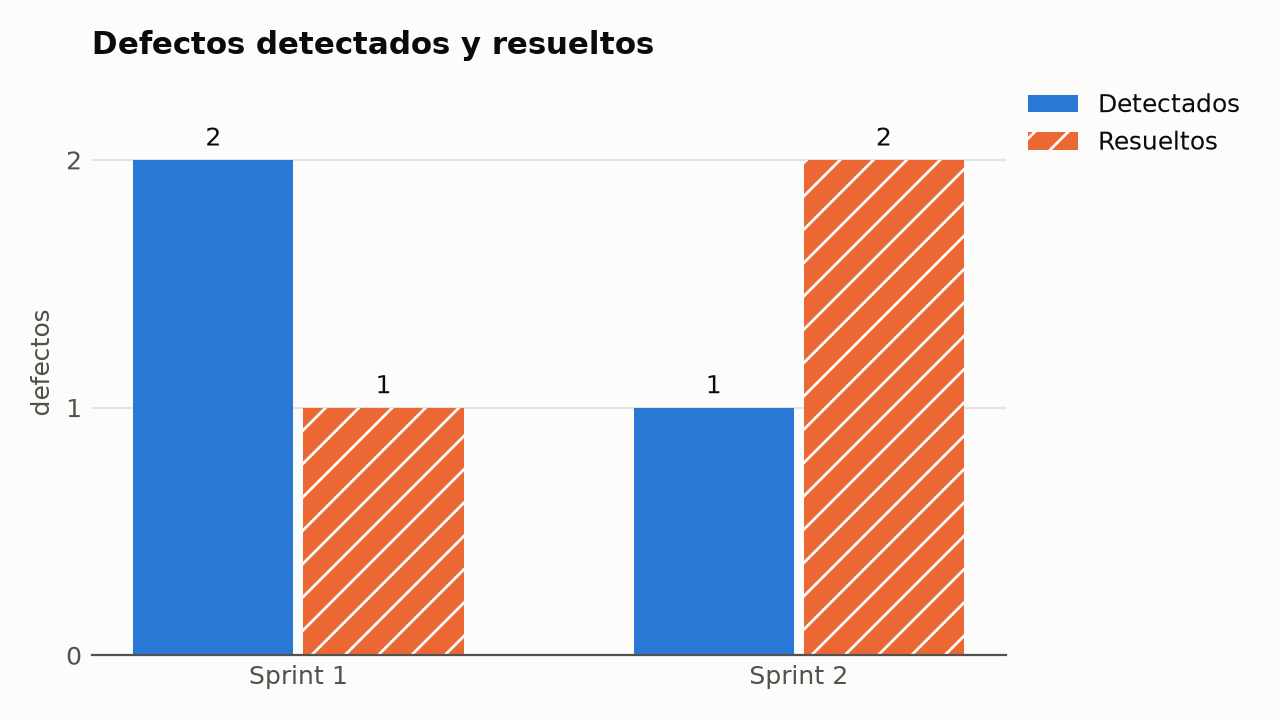
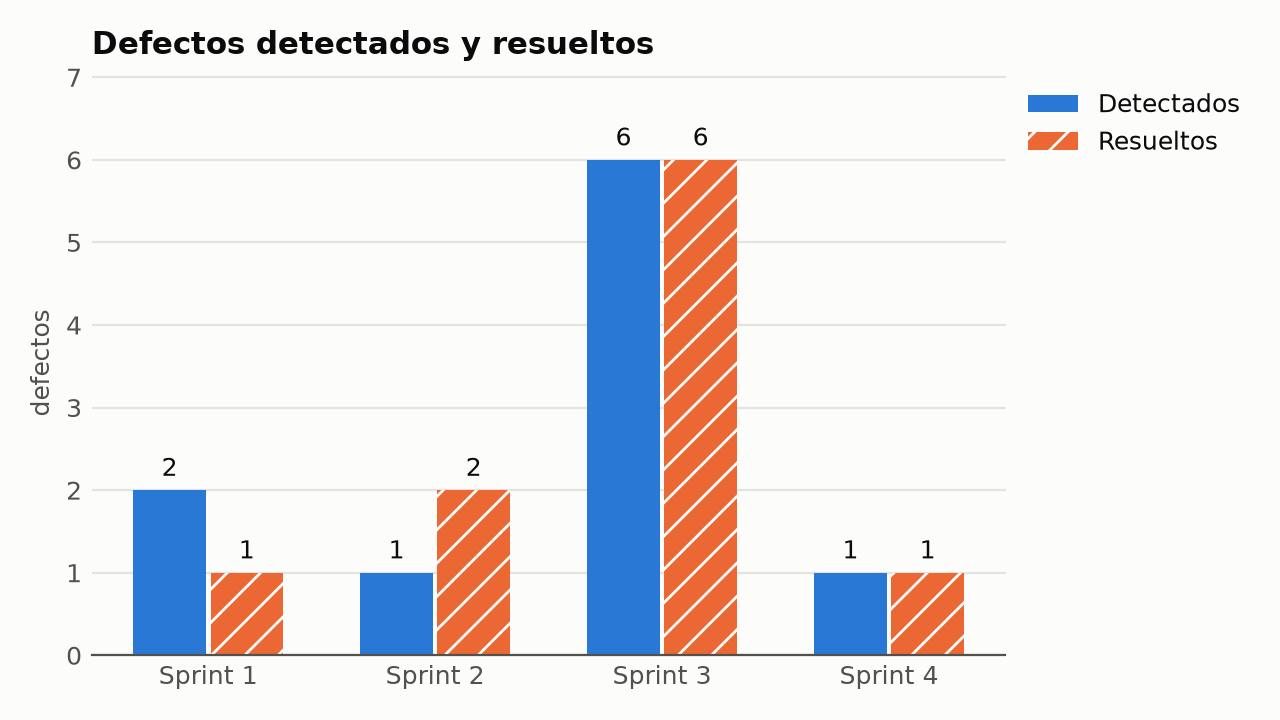
docs: el informe final completo, con los cuatro sprints y las conclusiones
Las secciones 1, 2, 8 y 9 pasan de esqueleto a texto: el producto con la
tabla de requerimientos de la consigna (21 historias, 109 de 109 story
points), cómo trabajamos (Scrum, tablero, SDD/BDD/TDD, revisión, CI/CD y el
uso de la IA), los acuerdos de cada retro y si se cumplieron, y las
conclusiones. La tabla de métricas, la cobertura y el TDD suman el cierre
del Sprint 3 y el del 4, y los gráficos se regeneraron.

diff --git a/docs/informe-final.md b/docs/informe-final.md
@@ -1,16 +1,8 @@
-# Informe final del proyecto — esqueleto
+# Informe final del proyecto
 
-> **Borrador, 26/10.** Ya tiene cargados el Sprint 0, el 1 y el 2, la cobertura al 26/10, la
-> evidencia de TDD y la trazabilidad de la #13. Es la estructura del informe en PDF que queda listo el
-> 29/10 y se presenta el 2/11. Lo arma y lo revisa Emiliano Sorato (Agile Enabler), con las métricas del repo, antes de
-> exportarlo. Cada sección dice de dónde salen sus datos. Lo que está entre corchetes,
-> **[pendiente]**, se completa al cierre del Sprint 3 (28/10) y del Sprint 4 (29/10).
->
-> El PDF se arma como `.docx` con los estilos de Word (Título 1, 2 y 3) y se exporta desde
-> Word. **Antes de exportar:** la portada va sin símbolos ni logos (solo universidad, facultad,
-> materia, título, integrantes con legajo y año), y se limpian los metadatos del Word y del PDF
-> (autor y programa que lo generó), como pide el `CLAUDE.md` de la materia. La presentación
-> final la arma Juliana Bustos y no va acá.
+Este informe cuenta qué construimos, cómo lo construimos y qué aprendimos midiéndonos, sprint
+por sprint. Lo armó Emiliano Sorato (Agile Enabler) con las métricas del repositorio, las actas
+y el tablero. Cada sección dice de dónde salen sus datos, para que se pueda comprobar todo.
 
 ## Portada
 
@@ -21,51 +13,113 @@ Maximiliano Eula (legajo 8665).
 
 ## 1. El producto
 
-- Qué hace la aplicación y para quién, en un párrafo.
-- Qué requerimientos mínimos de la consigna cubre, en una tabla: requerimiento, historia,
-  estado. Fuente: el Product Backlog del tablero y `docs/specs/README.md`.
-- Cómo se usa: consola y web. Fuente: `docs/manual-de-usuario.md`.
-- Arquitectura en un diagrama: dominio en Go, consola y web, y el guardado de los datos en una
-  base de datos SQLite (#177, en `dev` desde el 28/10 con el PR #186), con el archivo JSON
-  para importar y exportar. Fuente: `docs/documentacion-tecnica.md` y `docs/diseno-dominio.md`.
+*Seguimiento y Medición ICS* es una aplicación para estimar, seguir y medir proyectos de
+software que se trabajan con Scrum. Se carga un proyecto con sus integrantes, se arma el Product
+Backlog, se estiman las historias con Planning Poker, se planifican y se cierran los sprints, se
+registran las horas reales y los defectos, y las métricas se ven en un dashboard y en un reporte
+que se descarga en PDF. Está pensada para un equipo chico como el nuestro: la demo usa nuestro
+propio proyecto, cargado con lo que registramos en el tablero y en las actas.
+
+Cubre todos los requerimientos mínimos de la consigna. Las 21 historias del Product Backlog
+están terminadas, con sus 109 story points:
+
+| Requerimiento de la consigna | Historias | Estado |
+|---|---|---|
+| Gestión de proyectos e integrantes | #3, #4 | Terminadas (Sprint 1) |
+| Product Backlog con prioridad, estado, story points y criterios | #6, #7 | Terminadas (Sprint 2) |
+| Estado de un proyecto | #5 | Terminada (Sprint 2) |
+| Sprints: goal, asignación, cierre y consulta de anteriores | #8, #9, #10, #11 | Terminadas (Sprints 2 y 3) |
+| Estimación con story points y Planning Poker: votos ocultos, diferencias, rondas y acuerdo | #12, #13, #73 | Terminadas (Sprints 2 y 3) |
+| Esfuerzo real por integrante | #14 | Terminada (Sprint 2) |
+| Defectos con severidad, estado, historia y sprints de detección y resolución | #15 | Terminada (Sprint 2) |
+| Métricas del proyecto y de cada sprint | #16 | Terminada (Sprint 3) |
+| Dashboard con gráficos | #17 | Terminada (Sprint 3) |
+| Reporte por proyecto o por sprint | #18 | Terminada (Sprint 3) |
+| Reporte exportable a PDF | #19 | Terminada (Sprint 4) |
+| Interfaces para usarlo: consola y web | #24, #77, #78 | Terminadas (Sprints 2 y 4) |
+
+Además se agregaron tres trabajos sin story points: guardar los datos en una base de datos
+SQLite (#177), el CI/CD que despliega la web en un servidor (#219) y las mejoras visuales para la
+demo (#223).
+
+**Cómo se usa.** Hay dos interfaces sobre el mismo núcleo: la consola, para proyectos,
+integrantes y backlog, y la web, que hace todo. La web guarda los datos en una base SQLite y
+puede importar y exportar un archivo JSON. Cada incremento que llega a `main` se despliega solo
+en un servidor, así que se puede abrir desde cualquier lado. El paso a paso está en el
+[manual de usuario](manual-de-usuario.md), y cómo se despliega, en
+[despliegue.md](despliegue.md).
+
+**Arquitectura.** Todo el núcleo y las reglas de negocio están en Go, en `internal/domain`, sin
+dependencias externas. La consola (`cmd/app`) y la web (`internal/web` y `cmd/web`) solo usan
+el dominio, y el guardado está aparte, en `internal/store`. El detalle está en la
+[documentación técnica](documentacion-tecnica.md).
 
 ![Arquitectura: los paquetes de Go y los archivos de datos](graficos/arquitectura.png)
 
 El diagrama sale de `scripts/diagrama-arquitectura.py`. Las flechas son los import entre
-paquetes: la web y la consola solo usan el dominio, y el guardado está aparte, en
-`internal/store`.
+paquetes.
 
 ## 2. Cómo trabajamos
 
-- **Scrum:** roles, calendario de los cinco sprints (0 a 4) y ceremonias. Fuente: el plan y
-  las actas de `docs/actas/`.
-- **Tablero:** columnas, campos (story points, sprint, horas estimadas y reales) y cómo se
-  movía una historia. Fuente: el GitHub Project.
-- **SDD, BDD y TDD:** spec con tres puertas antes del código, escenarios Given-When-Then y
-  commits separados de test y de código. Fuente: `CLAUDE.md`, `AGENTS.md` y `docs/specs/`.
-- **Uso de la IA:** qué historias se hicieron con asistencia de IA y cómo se revisaron. Las
-  horas de esas historias son el tiempo de dirección y revisión.
+**Scrum.** Los Product Architects fueron los profesores. Emiliano Sorato fue el Agile Enabler,
+y Agustín Salinas, Juliana Bustos y Maximiliano Eula, los Product Builders; Emiliano también
+implementó historias. Hicimos cinco sprints:
+
+| Sprint | Fechas | Objetivo |
+|---|---|---|
+| 0 | 07/09 → 28/09 | Repositorio, tablero y Product Backlog |
+| 1 | 28/09 → 16/10 | MVP: proyectos, integrantes y backlog |
+| 2 | 20/10 → 25/10 | Sprints, esfuerzo y defectos, todo operable desde la consola |
+| 3 | 26/10 → 28/10 | Que el sistema mida el proyecto y lo muestre: métricas, dashboard y reporte |
+| 4 | 29/10 → 30/10 | Cerrar el producto y tener todo lo que se entrega listo para presentar |
+
+Cada sprint tuvo su planning, su review y su retrospectiva, casi todas por escrito en issues y
+PRs, porque no coincidíamos en horarios. La daily fue asíncrona, a las 21 h, con una línea de
+cada uno. Las actas están en [docs/actas/](actas/), y cada incremento llegó a `main` con su tag.
+
+**Tablero.** Un GitHub Project con siete columnas: Product Backlog, Sprint Backlog,
+Especificación SDD, Lista para implementar, En progreso, En review y Hecho. Cada historia tiene
+sus story points, su prioridad, su sprint y sus horas estimadas y reales. Las horas estimadas
+salen de los story points, a 2,7 h por punto, que es lo que costó un punto en el Sprint 1.
+
+**SDD, BDD y TDD.** Antes de programar una historia se escribe su spec, en
+[docs/specs/](specs/), con tres fases: requisitos (con sus reglas de negocio, casos límite,
+errores, criterios de aceptación y escenarios Given-When-Then), diseño y tareas. Cada fase pasa
+por una puerta que aprueba otro integrante. Después cada tarea es un ciclo de TDD: el test en un
+commit, con la salida del RED en el mensaje, y el código que lo hace pasar en el siguiente. No se
+aplasta el historial, porque es la evidencia (sección 6).
+
+**Revisión, CI y CD.** Nadie pushea directo: todo entra por pull request, con una revisión
+escrita y el CI en verde. El CI corre la coherencia de las specs, `gofmt`, `go vet`, los tests
+con su cobertura, los mismos tests en Windows y una prueba de humo de la web armada. El CD, con
+cada incremento en `main`, vuelve a probar todo y despliega la web en el servidor.
+
+**Uso de la IA.** La consigna la permite, y el equipo la usó. Emiliano Sorato implementó con
+asistencia de IA la #6, la #5, la #14, la #15, la #77, la #10, la #16, la #78, la #177 y la #19:
+la IA trabajó bajo su dirección y con su revisión. Maximiliano Eula la usó en la #12, la #24, la
+#13 y la #73: la IA proponía el test y el código, y él aprobaba cada paso. Con IA o sin ella,
+todo pasó por las mismas puertas, el mismo TDD, la misma revisión y el mismo CI. En las
+historias que implementó Emiliano, las horas reales son el tiempo de dirigir y revisar, y por eso
+las métricas muestran la desviación con ellas y sin ellas.
 
 ## 3. Métricas por sprint
 
-Los números de un sprint cerrado salen de su acta de review, que se escribe el día del cierre
-y no cambia. Si después se estima una historia que se terminó en ese sprint, el recálculo va en
-el acta aparte y con fecha, como pasó con la #77 en el Sprint 2. El [informe de métricas](informe-de-metricas.md) explica cómo se calcula cada
-uno y por qué el tablero solo no alcanza para un sprint cerrado.
+Los números de un sprint cerrado salen de su acta de review, que se escribe al cierre. El
+[informe de métricas](informe-de-metricas.md) explica cómo se calcula cada uno.
 
 | Métrica | Sprint 1 | Sprint 2 | Sprint 3 | Sprint 4 |
 |---|---|---|---|---|
-| Fechas | 28/09 → 16/10 | 20/10 → 25/10 | 26/10 → 28/10 | 29/10 |
-| SP planificados | 16 | 31 (44 con la #77) | 41 | [pendiente] |
-| SP completados (velocidad) | **6** | **52** (44 + 8 adelantados) | [pendiente] | [pendiente] |
-| Historias completadas | 2 de 5 (40%) | 10 de 10 (100%) | [pendiente] | [pendiente] |
-| Horas estimadas | 48 | 56,7 | 110,7 | [pendiente] |
-| Horas reales trabajadas | 38,25 | 31 | [pendiente] | [pendiente] |
-| Desviación de las historias terminadas | −11% | −52% (−36% sin la #5, la #14 y la #15) | [pendiente] | [pendiente] |
-| Horas por story point completado | 2,7 | 1,0 (1,8 sin la #5, la #14 y la #15) | [pendiente] | [pendiente] |
-| Defectos detectados / resueltos | 2 / 1 | 1 / 2 | [pendiente] | [pendiente] |
+| Fechas | 28/09 → 16/10 | 20/10 → 25/10 | 26/10 → 28/10 | 29/10 → 30/10 |
+| SP planificados | 16 | 31 (44 con la #77) | 41 | 18 |
+| SP completados (velocidad) | **6** | **52** (44 + 8 adelantados) | **33** (28 + 5 adelantados) | **18** |
+| Historias completadas | 2 de 5 (40%) | 10 de 10 (100%) | 5 de 6 (83%) | 2 de 2 (100%) |
+| Horas estimadas | 48 | 56,7 | 110,7 | 48,6 |
+| Horas reales trabajadas | 38,25 | 31 | 47 | 3,5 |
+| Desviación de las historias terminadas | −11% | −52% (−36% sin la #5, la #14 y la #15) | −51% (−21% sin la #10 y la #16) | −93% (las dos con asistencia de IA) |
+| Horas por story point completado | 2,7 | 1,0 (1,8 sin la #5, la #14 y la #15) | 1,3 | 0,2 |
+| Defectos detectados / resueltos | 2 / 1 | 1 / 2 | 6 / 6 | 1 / 1 |
 
-_El Sprint 0 fue de preparación, sin story points: lo que se hizo está en el párrafo del Sprint 0, abajo._
+**Velocidad del proyecto: 27 story points por sprint** (el promedio de 6, 52, 33 y 18).
 
 **Sprint 0 — preparación** ([acta](actas/sprint-0-cierre.md)). No tuvo story points: era
 dejar listos el repositorio, el tablero y el Product Backlog. Se cumplió el objetivo: el
@@ -91,35 +145,48 @@ con 44 SP terminados y velocidad 52. Las horas trabajadas en el sprint fueron 31
 Salinas 20, Maximiliano Eula 8, Emiliano Sorato 3 y Juliana Bustos 0, según el tablero.
 Juliana Bustos anotó además 14 horas propias que no están en el tablero (la spec de la #17,
 revisiones y gestión). La #5, la #14 y la #15 las implementó Emiliano Sorato con asistencia de
-IA. Sus horas reales son su tiempo de dirección y revisión, y por eso la desviación da
-tan negativa; por eso se muestra también la cuenta sin esas tres. La #77 tampoco entra en la
+IA, y por eso se muestra también la desviación sin esas tres. La #77 tampoco entra en la
 desviación, porque no tiene horas estimadas: se estimó cuando ya estaba terminada.
 
-**Sprint 3 y Sprint 4:** [pendiente: se completan con sus reviews, el 28/10 y el 29/10]. Del
-Sprint 3, la tabla ya tiene lo planificado: 41 SP y 110,7 horas estimadas.
+**Sprint 3 — funcionalidad y calidad** ([planning](actas/sprint-3-planning.md),
+[review](actas/sprint-3-review.md), [retro](actas/sprint-3-retrospectiva.md)). Se
+comprometieron 41 SP y se terminaron 28: la #10, la #16, la #11, la #17 y la #18. La #17 y la
+#18 entraron a `dev` el 29/10, un día después del fin del sprint, y cuentan en el 3 porque
+estaban comprometidas ahí y la review se hizo después. La #78 llegó con 22 de sus 24 tareas:
+le faltaban el reporte y su PDF en la web, que dependían de la #18 y la #19, así que volvió al
+Product Backlog sin sumar. Con los 5 SP de la #73, adelantada, la velocidad fue de 33. Las
+horas trabajadas fueron 47, y las terminadas dan −51% (−21% sin la #10 y la #16, hechas con
+asistencia de IA). La prueba exploratoria de la web del 26/10 encontró cuatro defectos, y los
+seis defectos del sprint se resolvieron antes del cierre.
+
+**Sprint 4 — cierre** ([planning](actas/sprint-4-planning.md),
+[review](actas/sprint-4-review.md), [retro](actas/sprint-4-retrospectiva.md)). Iba a durar un
+día, el 29/10, y siguió el 30/10 para terminar la #78 y la #19. Se comprometieron 18 SP, los
+de esas dos, y se terminaron los 18: la #19 conectó el PDF con el reporte de la #18 (PR #222),
+y la #78 sumó el reporte y su descarga en la web (PR #224). Se resolvió el único defecto del
+sprint, el #220. También se terminaron el CI/CD con el deploy (#219) y las mejoras visuales
+para la demo (#223), sin story points. Las dos historias las implementó Emiliano Sorato con
+asistencia de IA, así que sus horas son su tiempo de dirigir y revisar: 1 h la #19 y 2,5 h la
+#78 (1,5 del Sprint 3 y 1 del 4), contra 48,6 estimadas. Por eso la desviación da −93% y el
+punto sale a 0,2 h, y el sprint no sirve para comparar el costo de un punto con los demás. Las
+horas trabajadas en el sprint fueron 3,5: la #19, lo nuevo de la #78 y la #219.
 
 **Historias adelantadas, agregadas y estimadas después.**
 
 - **Adelantadas.** Desde el 21/10, quien termina lo suyo adelanta su próxima historia (decisión
   11 del [plan](plan-final-al-2-de-noviembre.md)). Una adelantada no suma a lo comprometido; si
   se termina, suma a la velocidad, aparte. Fueron la #13 en el Sprint 2 y la #73 en el 3.
-- **Agregadas durante el sprint.** La #177 (guardar los datos en una base de datos) entró al
-  Sprint 3 el 26/10, ya empezado. Se cuenta igual que una adelantada: no suma a lo comprometido
-  y, si se termina, suma a la velocidad. Se terminó el 28/10 (PR #186) sin story points, porque
-  su Planning Poker no se cerró: sus 1,5 h reales suman al total del sprint, pero no a la
-  velocidad ni a la desviación.
+- **Agregadas durante el sprint.** La #177 (la base de datos) entró al Sprint 3 ya empezado, y
+  la #219 (el CI/CD) y la #223 (las mejoras visuales), al Sprint 4. No tienen story points:
+  sus horas suman al total del sprint, pero no a la velocidad ni a la desviación.
 - **Estimadas después.** La #77 y la #78, las de la web, entraron sin story points. El equipo
-  las estimó el 26/10, en la ronda 2 del Planning Poker de la planning del Sprint 3: 13 y 13,
-  con los cuatro de acuerdo. La #77 ya estaba terminada y suma al Sprint 2, donde se terminó.
-  La #78 entra en el compromiso del Sprint 3, que queda en 41 SP, porque se estimó en esa
-  planning y estuvo en el sprint desde el primer día, como decidió Emiliano Sorato. Sus 35,1 h
-  estimadas salen de los 13 SP a 2,7 h por punto. La #77 no tiene horas estimadas, así que no
-  entra en la desviación.
+  las estimó el 26/10 en la ronda 2 del Planning Poker: 13 y 13, con los cuatro de acuerdo. La
+  #77 ya estaba terminada y suma al Sprint 2. La #78 entró en el compromiso del Sprint 3 y, como
+  no se terminó, sumó en el Sprint 4.
 
 ## 4. Gráficos
 
-Los tres gráficos salen de la tabla de la sección 3, con `scripts/graficos-informe.py`. Se
-regeneran cada vez que cambia la tabla. Un sprint con [pendiente] todavía no aparece.
+Los tres gráficos salen de la tabla de la sección 3, con `scripts/graficos-informe.py`.
 
 ![Velocidad por sprint](graficos/velocidad.png)
 
@@ -127,32 +194,35 @@ regeneran cada vez que cambia la tabla. Un sprint con [pendiente] todavía no ap
 
 ![Defectos detectados y resueltos por sprint](graficos/defectos.png)
 
-[pendiente: si la #17 llega a `dev`, sumar una captura del dashboard con los datos del
-proyecto.]
+El dashboard de la aplicación muestra lo mismo con los datos de demo, que son nuestro proyecto
+al cierre del Sprint 2 con el Sprint 3 cerrado en vivo, como en el
+[guion de la demo](demo/guion-de-demo.md):
+
+![El dashboard con los datos de demo](demo/capturas/18-dashboard.png)
 
 ## 5. Pruebas y cobertura
 
-Medido con `go test -cover ./...` sobre `dev`: en `4f7644b`, el 26/10, el primer día del
-Sprint 3, y en `17ec982`, el 29/10. Los cierres anteriores salen de las actas de review.
+Medido con `go test -cover ./...` sobre `dev` al cierre de cada sprint.
 
-| Paquete | Qué tiene | Sprint 1 (`4481d1c`, 15/10) | Sprint 2 (`b45cbe6`, 24/10) | 26/10 (`4f7644b`) | 29/10 (`17ec982`) |
+| Paquete | Qué tiene | Sprint 1 (`4481d1c`) | Sprint 2 (`b45cbe6`) | Sprint 3 (`5d1d556`) | Sprint 4 (`89e4afd`) |
 |---|---|---|---|---|---|
 | `internal/domain` | el núcleo y las reglas de negocio | **100%** | **100%** | **100%** | **100%** |
-| `internal/store` | el guardado: en archivo, y desde la #177 en la base de datos | — | 96,0% | 96,0% | 87,1% |
-| `internal/web` | las pantallas de la web | — | 93,8% | 94,0% | 93,9% |
+| `internal/store` | el guardado: en archivo, y desde la #177 en la base de datos | — | 96,0% | 87,1% | 87,1% |
+| `internal/web` | las pantallas de la web | — | 93,8% | 94,1% | 94,4% |
 | `cmd/app` | la consola | 0% (sin lógica todavía) | 96,2% | 96,2% | 96,2% |
-| `cmd/web` | el arranque de la web | — | 56,2% | 94,0% | 91,1% |
-| **Total** | | **99,2%** | **96,0%** | **96,9%** | **95,5%** |
-| Tests | | 52 | 263 | 317 | 384 |
+| `cmd/web` | el arranque de la web | — | 56,2% | 91,1% | 91,1% |
+| **Total** | | **99,2%** | **96,0%** | **95,7%** | **95,8%** |
+| Tests | | 52 | 263 | 420 | 426 |
 
-- Al 26/10 son **317 tests**, y 469 subtests más, que salen de los tests con tabla. Al 29/10
-  son **384 tests** y 553 subtests, y pasan todos.
-- Del 26/10 al 29/10 la cobertura total baja de 96,9% a 95,5% por `internal/store`: la #177
-  cambió el guardado en archivo por la base de datos, y esa parte nueva queda en 87,1%.
-- [pendiente: la cobertura al cierre del Sprint 3 y del Sprint 4.]
-- El CI corre formato, análisis estático y los tests con cobertura en cada pull request. Desde
-  el arreglo del defecto #108 (PR #116) los corre también en Windows.
-- Escenarios BDD con test: ver la sección 6.
+- El dominio, donde están todas las reglas de negocio, estuvo al 100% en todos los cierres.
+- La cobertura total baja en el Sprint 3 por `internal/store`: la #177 cambió el guardado en
+  archivo por la base de datos, y esa parte nueva queda en 87,1%.
+- Al cierre son 426 tests y 607 subtests, que salen de los tests con tabla, y pasan todos, en
+  Linux y en Windows.
+- La prueba de humo del CI abre la web compilada con los datos de demo y pide sus páginas
+  principales, también el reporte y su PDF.
+- De los escenarios BDD, todos los de las historias tienen su test (ver la sección 6 y la
+  [trazabilidad](trazabilidad.md)).
 
 ## 6. Evidencia de TDD
 
@@ -161,13 +231,13 @@ mensaje) y el código que lo hace pasar, en el siguiente (`feat:`). No se aplast
 así que el ciclo queda en el historial de `dev`. `scripts/trazabilidad.sh` lee ese historial y
 le pone a cada test una marca:
 
-| Qué muestra el historial | 26/10 (`4f7644b`) | 29/10 (`17ec982`) |
-|---|---|---|
-| Ciclo completo: el test en un commit y el código que lo hace pasar en el siguiente | 250 | 297 |
-| Ciclo completo, con el test trayendo lo justo para compilar (una firma o una constante) | 3 | 3 |
-| Sin RED: el test pasó con el código que ya estaba, y el commit lo dice | 44 | 64 |
-| Sin GREEN: después del test no hay un commit de código | 13 | 13 |
-| Test y código en el mismo commit (desvío del TDD) | 1 | 1 |
+| Qué muestra el historial | Sprint 2 (`4f7644b`) | Sprint 3 (`5d1d556`) | Sprint 4 (`89e4afd`) |
+|---|---|---|---|
+| Ciclo completo: el test en un commit y el código que lo hace pasar en el siguiente | 250 | 321 | 327 |
+| Ciclo completo, con el test trayendo lo justo para compilar (una firma o una constante) | 3 | 3 | 3 |
+| Sin RED: el test pasó con el código que ya estaba, y el commit lo dice | 44 | 69 | 69 |
+| Sin GREEN: después del test no hay un commit de código | 13 | 13 | 13 |
+| Test y código en el mismo commit (desvío del TDD) | 1 | 1 | 1 |
 
 El único desvío es `0d22bc7`, de la #6, en el Sprint 1. Los "sin RED" son casos que una tarea
 anterior ya resolvía. Desde el 20/10 se dejan dichos en el asunto del commit, para que no
@@ -187,9 +257,9 @@ empezó el 20/10.
 - GREEN: `6a78fd1` — *feat: votar sin que se pueda leer ningún voto antes de revelar (historia
   13, tarea 5)*.
 
-Del 26/10 al 29/10 se sumaron 47 ciclos completos y 20 "sin RED", y ningún desvío nuevo: los
-13 "sin GREEN" y el test con el código en el mismo commit son los mismos del Sprint 1.
-[pendiente: los números al cierre del Sprint 4.]
+Del cierre del Sprint 3 al final se sumaron 6 ciclos completos, los de la #19, la #78 y el
+defecto #220, y ningún desvío nuevo: los 13 "sin GREEN" y el test con el código en el mismo
+commit son los mismos del Sprint 1.
 
 ## 7. Trazabilidad de punta a punta: la #13 *Votar en secreto en una ronda de Planning Poker*
 
@@ -241,17 +311,61 @@ GREEN (tarea 12, commit GREEN `ad93071`).
 
 ## 8. Retrospectivas
 
-Lo que se acordó en cada retro y si se cumplió en el sprint siguiente, en una tabla. Fuente:
-las actas `sprint-N-retrospectiva.md`. Sprint 1 y Sprint 2: cargados en sus actas. Sprint 3 y
-4: [pendiente].
+Lo que se acordó en cada retro y si se cumplió en el sprint siguiente. Sale de las actas
+`sprint-N-retrospectiva.md`.
+
+| Retro | Acuerdo | ¿Se cumplió? |
+|---|---|---|
+| Sprint 0 | Ningún PR se mergea sin la aprobación de otro integrante, sin bypass de administrador | No: en el Sprint 1 hubo cuatro PRs con bypass |
+| Sprint 0 | Cada integrante lleva al menos una historia de punta a punta | En parte |
+| Sprint 1 | Cero bypass de administrador, ni hacia `dev` ni hacia `main` | Sí, según los cuatro |
+| Sprint 1 | Un PR con cambios pedidos no se mergea hasta que se respondan | Sí, según los cuatro |
+| Sprint 1 | Un PR abierto antes de las 18 h se revisa ese mismo día | En parte |
+| Sprint 2 | Una franja fija por día para revisar los PRs asignados | No se midió |
+| Sprint 2 | Pedir revisor apenas se abre el PR | No se midió |
+| Sprint 2 | Seguir adelantando historias, con sus tres puertas aprobadas y lo que necesitan en `dev` | Sí: la #73 |
+| Sprint 3 | ESTADO.md lo regenera una sola persona, una vez por día | En parte: el 30/10 se regeneró dos veces |
+| Sprint 3 | No se mergea un PR con cambios pedidos sin responder | Sí |
+| Sprint 3 | Se mergea apenas el PR tiene su revisión y el CI en verde | Sí |
+| Sprint 3 | Un test que pasa sin RED se revisa contra los otros lugares donde se aplica la misma regla | Sí: en la tarea 24 de la #78, que pasó sin RED, se comprobó que el test fallaba rompiendo la plantilla |
 
 ## 9. Conclusiones
 
-[pendiente] Qué aprendimos midiéndonos: cómo cambió la estimación sprint a sprint, qué costó
-más de lo pensado y qué haríamos distinto. Sale de la sección de conclusiones del informe de
-métricas.
+**Lo que más nos sirvió fue escribir la spec antes y pasarla por las puertas.** Con el contrato
+del dominio acordado, cada uno pudo avanzar sin esperar al otro, y el Sprint 2 ya se hizo con
+las specs escritas de antemano. Por eso la velocidad pasó de 6 en el Sprint 1 a 52 en el 2, y
+33 y 18 en los dos últimos, que fueron cortos.
+
+**En horas estimábamos mal.** Con 2,7 h por punto, que fue lo que costó el Sprint 1, quedamos
+siempre muy por encima de lo real: −52% en el Sprint 2 y −51% en el 3. Una parte se explica por
+las historias hechas con asistencia de IA, donde las horas son el tiempo de dirigir y revisar,
+pero aun sin ellas la desviación fue de −36% y −21%. Los story points fueron más estables que
+las horas. Si lo hiciéramos de nuevo, mediríamos aparte las horas de lo hecho con IA desde el
+Sprint 1, como dijeron Maximiliano Eula y Juliana Bustos en la retro final, y cargaríamos las
+horas reales apenas se termina cada historia.
+
+**La calidad vino de los tests y de revisar con los tests corridos.** El dominio quedó al 100%
+de cobertura en todos los cierres, y todos los escenarios de las historias tienen su test. Casi
+todos los defectos los encontramos revisando PRs o en la prueba exploratoria del 26/10, no
+usando el sistema.
+
+**Lo que costó más de lo pensado** fue la web. Mostrar una regla de negocio en una pantalla
+accesible y que se vea bien en el celular llevó más trabajo que la regla misma, y la #78
+terminó siendo la historia más larga del proyecto. También los archivos que tocábamos todos
+(ESTADO.md, el índice de specs y el contrato del dominio), que chocaban seguido al cierre de
+cada sprint.
+
+**Qué haríamos distinto:** arrancar con la base de datos y la web desde el principio, en vez de
+sumarlas con el proyecto avanzado, y armar antes el CD con el deploy, para mostrar cada
+incremento funcionando.
 
 ## Anexos
 
-Enlaces al repositorio, al tablero, a las actas, a las specs, al manual de usuario y a la
-documentación técnica.
+- [Repositorio](https://github.com/emisorato1/seguimiento-medicion-ics) y
+  [tablero](https://github.com/users/emisorato1/projects/3)
+- [Actas](actas/) de cada planning, review y retrospectiva
+- [Especificaciones](specs/README.md) y [trazabilidad](trazabilidad.md)
+- [Informe de métricas y cobertura](informe-de-metricas.md)
+- [Manual de usuario](manual-de-usuario.md) y [documentación técnica](documentacion-tecnica.md)
+- [Integración y despliegue continuos](despliegue.md)
+- [Guion de la demo](demo/guion-de-demo.md) y [guía para la defensa](guia-de-defensa.md)
